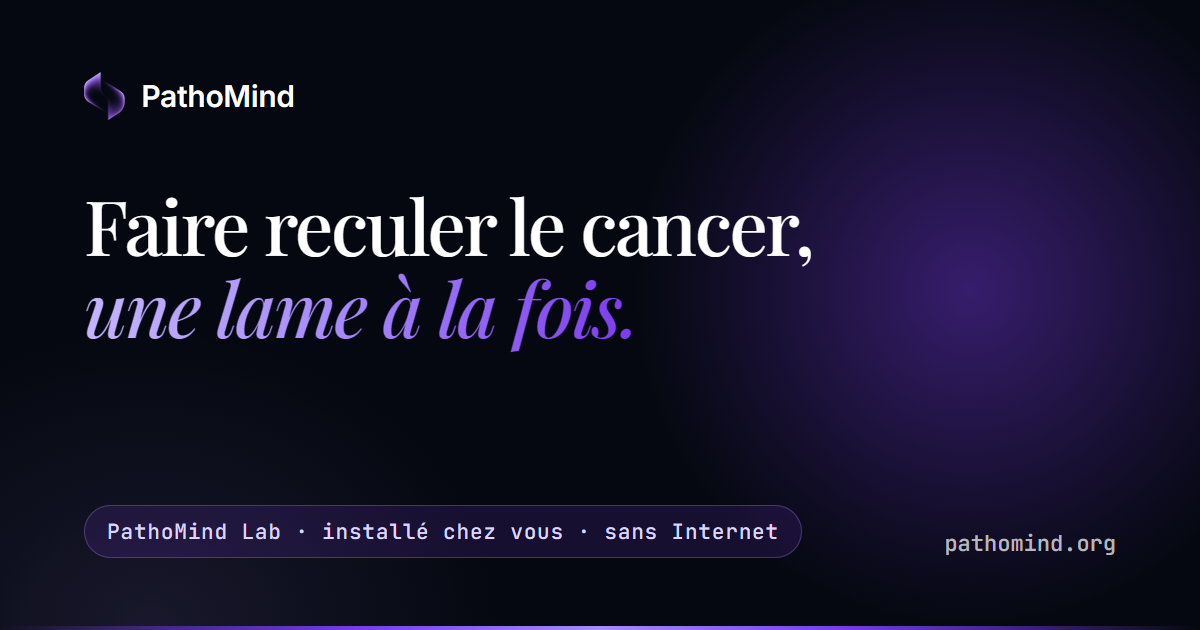
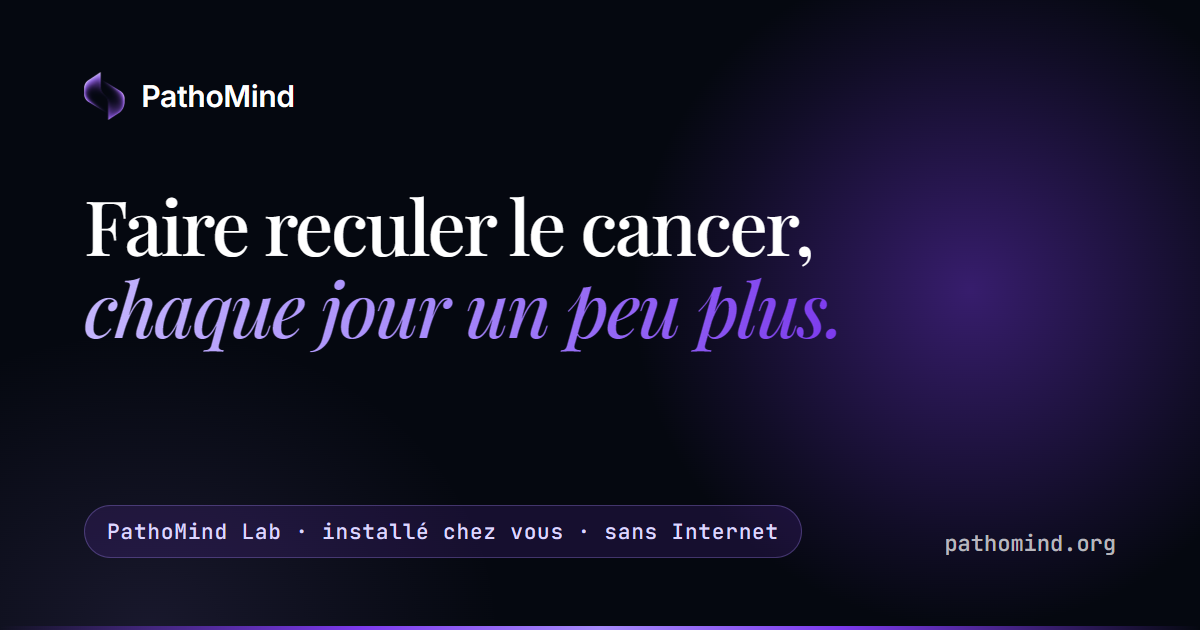
accroche : Faire reculer le cancer, chaque jour un peu plus (hero + apercu de lien)

Changed region(s): [[0.0617, 0.4222, 0.7092, 0.573]]

diff --git a/index.html b/index.html
@@ -17,7 +17,7 @@
     <meta property="og:image" content="https://pathomind.org/og-pathomind.png" />
     <meta property="og:image:width" content="1200" />
     <meta property="og:image:height" content="630" />
-    <meta property="og:image:alt" content="PathoMind : faire reculer le cancer, une lame à la fois." />
+    <meta property="og:image:alt" content="PathoMind : faire reculer le cancer, chaque jour un peu plus." />
     <meta name="twitter:card" content="summary_large_image" />
     <meta name="twitter:title" content="PathoMind Lab · Le logiciel du labo d'anatomopathologie, installé chez vous" />
     <meta name="twitter:description" content="Installé dans votre laboratoire sur un mini-PC serveur PathoMind. Vos données restent chez vous, tout fonctionne sans Internet." />

diff --git a/src/sections/Hero.jsx b/src/sections/Hero.jsx
@@ -7,7 +7,7 @@ import { EASE, fadeInUp, staggerContainer, wordReveal } from '../lib/animations'
 // Titre : chaque ligne est une liste de mots ; `accent` = mot en dégradé violet
 const LINES = [
   [{ w: 'Faire' }, { w: 'reculer' }, { w: 'le' }, { w: 'cancer,' }],
-  [{ w: 'une', accent: true }, { w: 'lame', accent: true }, { w: 'à', accent: true }, { w: 'la', accent: true }, { w: 'fois.', accent: true }],
+  [{ w: 'chaque', accent: true }, { w: 'jour', accent: true }, { w: 'un', accent: true }, { w: 'peu', accent: true }, { w: 'plus.', accent: true }],
 ]
 
 const METRICS = [
